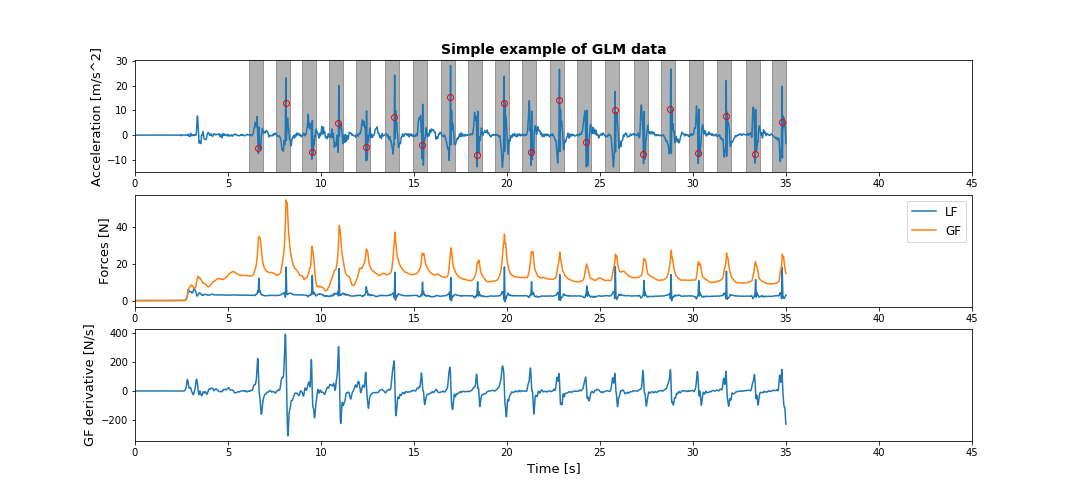
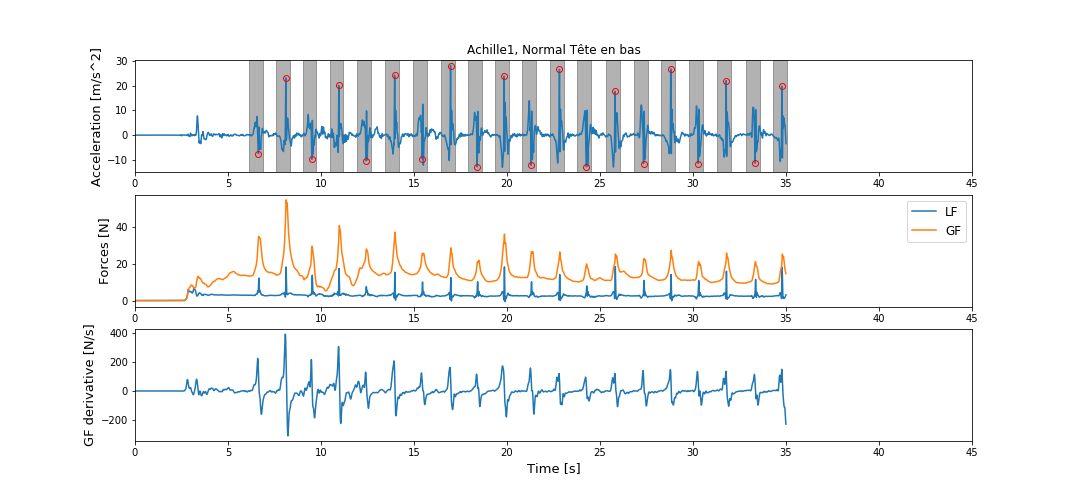
Quelques changements

diff --git a/plot_graphes.py b/plot_graphes.py
@@ -9,7 +9,6 @@ import matplotlib.pyplot as plt
 import numpy as np
 
 
-plt.close('all')
 
 def basic_plot(time, accX, ipk, cycle_starts, cycle_ends, LF, GF, dGF, s, trial) :
     fig = plt.figure(figsize = [15,7])
@@ -18,7 +17,6 @@ def basic_plot(time, accX, ipk, cycle_starts, cycle_ends, LF, GF, dGF, s, trial)
     ax[0].plot(time[ipk],accX[ipk], linestyle='', marker='o', 
                   markerfacecolor='None', markeredgecolor='r')
     ax[0].set_ylabel("Acceleration [m/s^2]", fontsize=13)
-    ax[0].set_title("Simple example of GLM data", fontsize=14, fontweight="bold")
     ax[0].set_xlim([0,45])
         
     # Putting grey patches for cycles
@@ -40,6 +38,18 @@ def basic_plot(time, accX, ipk, cycle_starts, cycle_ends, LF, GF, dGF, s, trial)
     ax[2].set_ylabel("GF derivative [N/s]", fontsize=13)
     ax[2].set_xlim([0,45])
     
+    if trial<=2 :
+        vue = "Bandeau"
+    elif trial <= 4 :
+        vue = "Lunettes"
+    else :
+        vue = "Normal"
+    if trial%2 :
+        tete = "Tête en bas"
+    else :
+        tete = "Tête en haut"
+    ax[0].set_title("%s, %s %s" %(s, vue, tete))
+    
     fig.savefig("figures\%s_%d_acc_forces_dGF.png" %(s,trial))
     
     
@@ -49,18 +59,32 @@ def plot_segments(GF, LF, AccX, cycle_starts, cycle_ends, s, trial) :
     plt.axis([0,620, -50, 50])
     #rapport = GF/LF
     for i in range(0,len(cycle_starts)-1):
-        if i == 0 :
-            col = "g"
-        elif i%2 :
+        if i%2 == 0:
             col = "b"
+            lab = "Collision en haut"
         else :
             col = "r"
-        #plt.plot(range(0,cycle_ends[i]-cycle_starts[i]), rapport[cycle_starts[i]:cycle_ends[i]],color = col, label = i)
-        plt.plot(range(0,cycle_ends[i]-cycle_starts[i]), GF[cycle_starts[i]:cycle_ends[i]],color = col, label = i)
-        #plt.plot(range(0,cycle_ends[i]-cycle_starts[i]), AccX[cycle_starts[i]:cycle_ends[i]],color = col, label = i)
-        plt.legend(fontsize=12)
+            lab = "Collision en bas"
+            
+        #plt.plot(range(0,cycle_ends[i]-cycle_starts[i]), rapport[cycle_starts[i]:cycle_ends[i]],color = col, label = lab)
+        #plt.plot(range(0,cycle_ends[i]-cycle_starts[i]), GF[cycle_starts[i]:cycle_ends[i]],color = col, label = lab)
+        plt.plot(range(0,cycle_ends[i]-cycle_starts[i]), AccX[cycle_starts[i]:cycle_ends[i]],color = col, label = lab)
+        plt.plot(np.full(80, 400), range(-40,40))
+        if i == 0 or i==1 :
+            plt.legend(fontsize=12)
+        if trial<=2 :
+            vue = "Bandeau"
+        elif trial <= 4 :
+            vue = "Lunettes"
+        else :
+            vue = "Normal"
+        if trial%2 :
+            tete = "Tête en bas"
+        else :
+            tete = "Tête en haut"
+        plt.title("%s, %s %s" %(s, vue, tete))
         
-        fig.savefig("figures\%s_%d_acc_segments.png" %(s,trial))
+        #fig.savefig("figures\%s_%d_GF_segments.png" %(s,trial))
 
 
 
@@ -69,7 +93,7 @@ def plot_diff_samecond(time, rapport, n) :
     ax = fig.subplots(n,1)
     col = ['b', 'r', 'g', 'c', 'm', 'y']
     for i in range(0,n):
-        lab = "condition " + str(i)
+        lab = "condition " + str(i+1)
         ax[i].plot(time,(rapport[n+i]-rapport[i]), color = col[i], label = lab)
         ax[i].plot(time,np.zeros(28000),"k")
         ax[i].legend(fontsize=12)
@@ -87,16 +111,17 @@ def plot_diff_position(time, Acctab, GFtab, n) :
         ax[1].legend(fontsize=12)
         i+=2
 """   
-def plot_diff_position(time, Acctab, GFtab, LFtab, n) :
-    fig = plt.figure(figsize = [15,21])
+def plot_diff_position(time, Acctab, GFtab, LFtab, rapporttab, n, s) :
+    fig = plt.figure(figsize = [15,30])
     axs = fig.subplots(9,1)
+    axs[0].axis([0, 35, -50, 50])
     for i in range(0, n) :
        
         if i%2 :
             lab = "tete en haut"
         else :
             lab = "tete en bas"
-        axs[int(i/2)].plot(time, GFtab[i], label = lab)
+        axs[int(i/2)].plot(time, rapporttab[i], label = lab)
         axs[(int(n/2)+int(i/2))].plot(time, Acctab[i], label = lab)
         axs[int(n) + int(i/2)].plot(time, LFtab[i], label = lab)
         axs[int(i/2)].legend(fontsize=12)
@@ -104,13 +129,13 @@ def plot_diff_position(time, Acctab, GFtab, LFtab, n) :
         axs[(int(n)+int(i/2))].legend(fontsize=12)
     axs[0].set_title('Bandeau')
     axs[1].set_title('Lunette')       
-    axs[2].set_title('Vision')
+    axs[2].set_title('Normal')
     axs[3].set_title('Bandeau')
     axs[4].set_title('Lunette')       
-    axs[5].set_title('Vision')
+    axs[5].set_title('Normal')
     axs[6].set_title('Bandeau')
     axs[7].set_title('Lunette')       
-    axs[8].set_title('Vision')
+    axs[8].set_title('Normal')
     axs[0].set_ylabel('GF')
     axs[1].set_ylabel('GF')
     axs[2].set_ylabel('GF')
@@ -120,6 +145,8 @@ def plot_diff_position(time, Acctab, GFtab, LFtab, n) :
     axs[6].set_ylabel('LF')
     axs[7].set_ylabel('LF')
     axs[8].set_ylabel('LF')
+    
+    #fig.savefig("figures\%s_GF_diffTeteHautBas.png" %(s))
     
     
 def plot_diff_pos2(time, GFtab) :

diff --git a/gbio_example_script_collisions.py b/gbio_example_script_collisions.py
@@ -12,16 +12,16 @@ Created on Wed Jan 29 11:16:06 2020
 import numpy as np
 import matplotlib.pyplot as plt
 from scipy import signal
-import os
 
 import glm_data_processing as glm
 import derive as der
 import plot_graphes as plot
+import FindPeaks as fp
 
 # Fermeture des figures ouvertes
 plt.close('all')
 
-subjects = ["Achille2"] #Names of subjects
+subjects = ["Achille1"] #Names of subjects
 trials = [1, 2, 3, 4, 5, 6] #Trials for each subject
 
 
@@ -30,6 +30,8 @@ rapporttab = np.zeros(shape=(len(trials)*len(subjects),longueur))
 GFtab = np.zeros(shape=(len(trials)*len(subjects),longueur))
 LFtab = np.zeros(shape=(len(trials)*len(subjects),longueur))
 Acctab = np.zeros(shape=(len(trials)*len(subjects),longueur))
+GFipktab = np.zeros(shape=(len(trials)*len(subjects)))
+
 i=0
 # Double for-loop that runs thrgough all subjects and trials
 for s in subjects:
@@ -62,6 +64,7 @@ for s in subjects:
         
         #%% Get acceleration, LF and GF
         time  = glm_df.loc[:,'time'].to_numpy()
+        clock  = glm_df.loc[:,'Metronome_b0'].to_numpy()
         accX  = glm_df.loc[:,'LowAcc_X'].to_numpy()*(-9.81)
         accX  = accX-np.nanmean(accX[baseline])
         GF    = glm_df.loc[:,'GF'].to_numpy()
@@ -80,14 +83,7 @@ for s in subjects:
         LF   = glm.filter_signal(LF,   fs = freqAcq, fc = freqFiltForces)
         LFv   = glm.filter_signal(LFv,   fs = freqAcq, fc = freqFiltForces)
         LFh   = glm.filter_signal(LFh,   fs = freqAcq, fc = freqFiltForces)
-        """
-        accX = accX[4799:-1]
-        GF = GF[4799:-1]
-        LF = LF[4799:-1]
-        LFv = LFv[4799:-1]
-        LFh = LFh[4799:-1]
-        time = time[4799:-1]
-        """
+        
         #%% Compute derivative of LF
         dGF=der.derive(GF,800)
         dGF=glm.filter_signal(dGF,   fs = freqAcq, fc = 10)
@@ -95,25 +91,33 @@ for s in subjects:
         dLF=der.derive(LF,800)
         dLF=glm.filter_signal(dLF,   fs = freqAcq, fc = 10)
         
-        #%% CUTTING THE TASK INTO SEGMENTS (your first task)
-        pk = signal.find_peaks(dLF,  prominence=125,distance=700)
-        ipk = pk[0]
-        cycle_starts = ipk-400
-        cycle_ends = ipk+200
+        dAcc=der.derive(accX,800)
+        dAcc=glm.filter_signal(dAcc,   fs = freqAcq, fc = 10)
         
+        
+        #%% CUTTING THE TASK INTO SEGMENTS (your first task)
+        #ipk, cycle_starts, cycle_ends = fp.FindPeaks(accX)
+        #GF_ipk, GF_cs, GF_ce = fp.FindPeaks(GF)
+        ipk, cycle_starts, cycle_ends = fp.FindPeaks(dLF, accX)
+        #dAcc_ipk, dAcc_cs, dAcc_ce = fp.FindPeaks(dAcc)
+        #ipk, cycle_starts, cycle_ends = dLF_ipk, dLF_cs, dLF_ce
         
         rapporttab[i] = GF/LF
-        Acctab[trial-1] = accX
-        GFtab[trial-1] = GF
-        LFtab[trial-1] = LF
+        Acctab[len(trials)-1] = accX
+        GFtab[len(trials)-1] = GF
+        LFtab[len(trials)-1] = LF
+        
         i=i+1
         #%% Basic plot of the data
         
+        #plt.figure(figsize = [15,7])
+        #plt.plot(time, clock)
+        
         plot.basic_plot(time, accX, ipk, cycle_starts, cycle_ends, LF, GF, dGF, s, trial)
         
-        #plot.plot_segments(GF, LF, accX, cycle_starts, cycle_ends, s, trial)
+        plot.plot_segments(GF, LF, accX, cycle_starts, cycle_ends, s, trial)
         
-    #plot.plot_diff_position(time, Acctab, GFtab, LFtab, trial)
+    #plot.plot_diff_position(time, Acctab, GFtab, LFtab, rapporttab, len(trials), s)
     #plot.plot_diff_pos2(time, GFtab)
 #plot.plot_diff_samecond(time, rapporttab, len(trials))
         

diff --git a/FindPeaks.py b/FindPeaks.py
@@ -1,0 +1,35 @@
+# -*- coding: utf-8 -*-
+"""
+Created on Mon Apr  6 17:26:02 2020
+
+@author: Jérôme
+"""
+
+import numpy as np
+from scipy import signal
+
+
+def FindPeaks(var, acc) :
+    pk = signal.find_peaks(var,  prominence=10,distance=700)
+    ipk = pk[0]
+    k = 0
+    #print(ipk)
+        
+    while ipk[k] < 4800 :
+            k = k+1
+    ipk = np.delete(ipk, range(0, k))
+    #print(ipk)
+    
+    rayon = 25
+    for i in range(len(ipk)) :
+        #print(str(ipk[i]) + " : " + str(acc[ipk[i]]))
+        #print(np.amax(np.abs(acc[(ipk[i]-rayon):(ipk[i]+rayon)])))
+        #print(np.where(np.abs(acc[(ipk[i]-rayon):(ipk[i]+rayon)]) == np.amax(np.abs(acc[(ipk[i]-rayon):(ipk[i]+rayon)]))))
+        ipk[i] = np.where(np.abs(acc[(ipk[i]):(ipk[i]+rayon)]) == np.amax(np.abs(acc[(ipk[i]):(ipk[i]+rayon)]))) +ipk[i]
+        #print(str(ipk[i]) + " : " + str(acc[ipk[i]]))
+        #print("---")
+        
+    
+    cycle_starts = ipk-400
+    cycle_ends = ipk+200
+    return ipk, cycle_starts, cycle_ends
